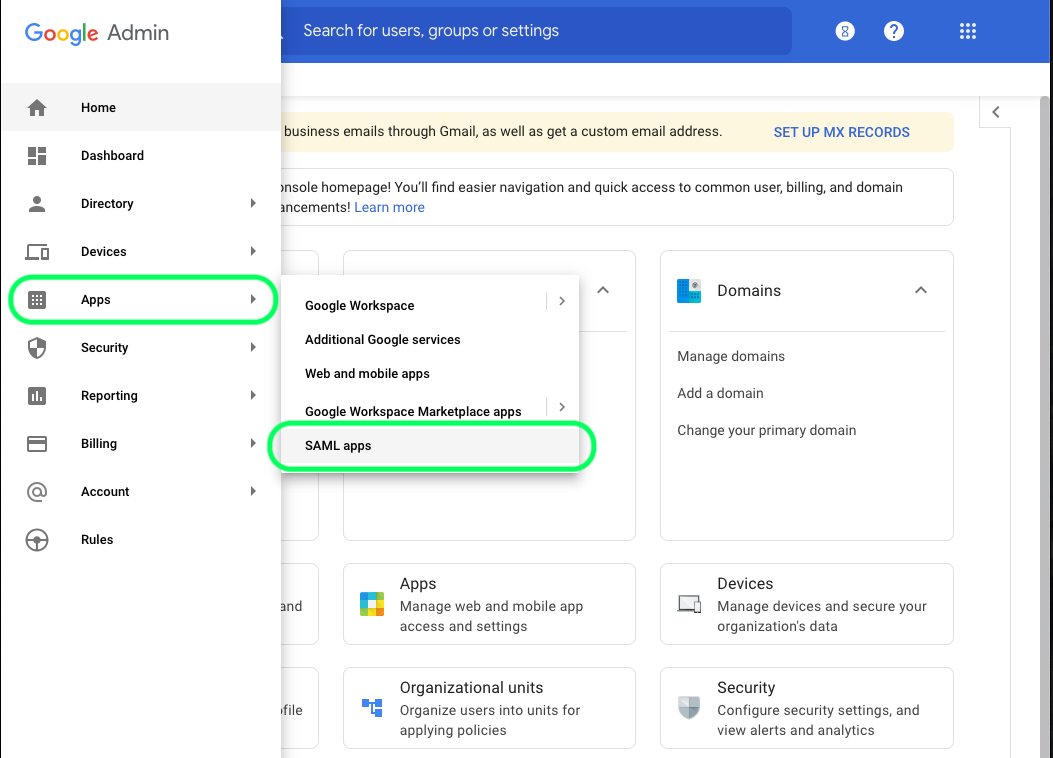
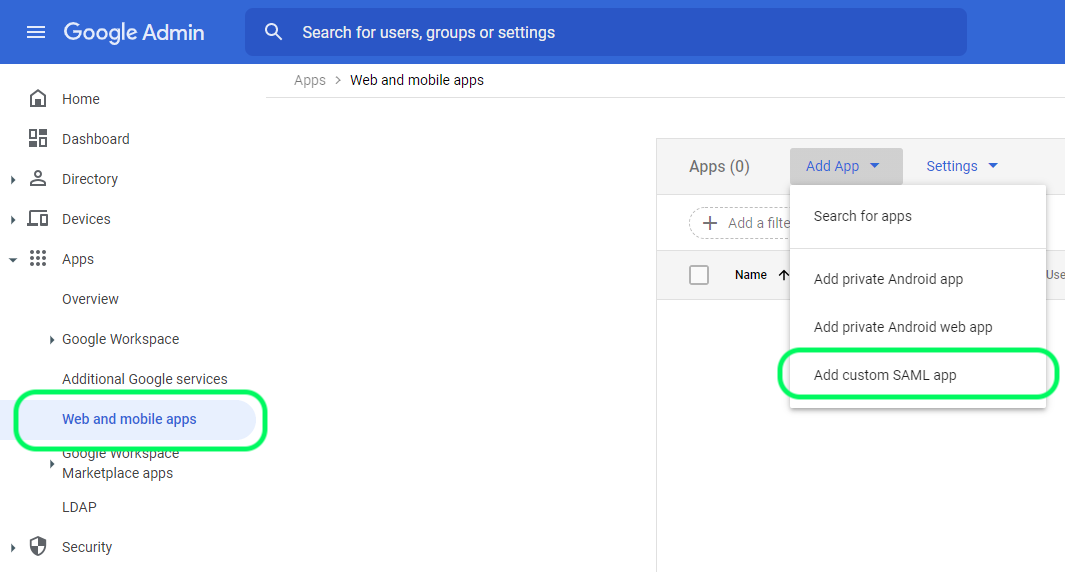
Misc (#763)
* bwdc tip for setting env variable

* hosting whitelist urls faq

* better screenshot for onelogin entity id

* clarify how to get entity id - okta

* aws entity id

* aws screenshot

* g workspace - entity id clarifications

* portable app FAQ item

diff --git a/_articles/login-with-sso/saml-google.md b/_articles/login-with-sso/saml-google.md
@@ -29,13 +29,9 @@ You don't need to edit anything on this screen yet, but keep it open for easy re
 
 ## Create a SAML app
 
-In the Google Workspace Admin console, select **Apps** &rarr; **SAML apps** from the navigation:
+In the Google Workspace Admin console, select **Apps** &rarr; **Web and mobile apps** from the navigation. On the Web and mobile apps screen, select **Add App** &rarr; **Add custom SAML app**:
 
-{% image sso/cheatsheets/saml-google/g-addapp.png SAML Apps %}
-
-Select **Add App** &rarr; **Add custom SAML app**:
-
-{% image sso/cheatsheets/saml-google/g-addapp2.png Custom SAML App %}
+{% image sso/cheatsheets/saml-google/g-addapp.png Create a SAML App %}
 
 ### App details
 
@@ -43,7 +39,9 @@ On the App details screen, give the application a unique Bitwarden-specific name
 
 ### Google Identity Provider details
 
-On the Google Identity Provider details screen, copy your **SSO URL**, **Entity ID**, and **Certificate** for [use during a later step](#identity-provider-configuration).
+On the Google Identity Provider details screen, copy your **SSO URL**, **Entity ID**, and **Certificate** for [use during a later step](#identity-provider-configuration):
+
+{% image sso/cheatsheets/saml-google/g-details.png IdP Details %}
 
 Select **Continue** when you're finished.
 
@@ -110,7 +108,7 @@ Identity Provider Configuration will often require you to refer back to the Work
 
 |Field|Description|
 |-----|-----------|
-|Entity ID|Set this field to Workspace's **Entity ID**, retrieved from the [Google Identity Provider details section](#identity-provider-details) or using the **Download Metadata** button.|
+|Entity ID|Set this field to Workspace's **Entity ID**, retrieved from the [Google Identity Provider details section](#google-identity-provider-details) or using the **Download Metadata** button.|
 |Binding Type|Set to **HTTP POST** or **Redirect**.|
 |Single Sign On Service URL|Set this field to Workspace's **SSO URL**, retrieved from the [Google Identity Provider details section](#identity-provider-details) or using the **Download Metadata** button.|
 |Single Log Out URL|Login with SSO currently **does not** support SLO. This option is planned for future development, however you may pre-configure it if you wish.|

diff --git a/_articles/login-with-sso/saml-okta.md b/_articles/login-with-sso/saml-okta.md
@@ -86,7 +86,9 @@ Once your application is created, select the **Sign On** tab for the app and sel
 
 {% image sso/cheatsheets/saml-okta/okta-ssosettings.png Get IdP Values %}
 
-Either leave this page up [for future use](#identity-provider-configuration), or copy the **Identity Provider Single Sign-On URL** and **Identity Provider Issuer** and download the **X.509 Certificate**.
+Either leave this page up [for future use](#identity-provider-configuration), or copy the **Identity Provider Single Sign-On URL** and **Identity Provider Issuer** and download the **X.509 Certificate**:
+
+{% image sso/cheatsheets/saml-okta/okta-values.png IdP Values %}
 
 ### Assignments
 
@@ -126,7 +128,7 @@ Identity Provider Configuration will often require you to refer back to the Okta
 
 |Field|Description|
 |-----|-----------|
-|Entity ID|Enter your **Identity Provider Issuer**, retrieved from the Okta [Sign On Settings](#get-idp-values) screen.|
+|Entity ID|Enter your **Identity Provider Issuer**, retrieved from the Okta [Sign On Settings](#get-idp-values) screen by selecting the **View Setup Instructions** button.|
 |Binding Type|Set to **Redirect**. Okta currently does not support HTTP POST.|
 |Single Sign On Service URL|Enter your **Identity Provider Single Sign-On URL**, retrieved from the Okta [Sign On Settings](#get-idp-values) screen.|
 |Single Log Out Service URL|Login with SSO currently **does not** support SLO. This option is planned for future development, however you may pre-configure it if you wish.|

diff --git a/_articles/faqs/hosting-faqs.md b/_articles/faqs/hosting-faqs.md
@@ -25,6 +25,17 @@ You can read more about Docker and container technologies at [Docker's Website](
 
 **A:** High availability can be achieved by either configuring multiple instances of the containers into a Docker Swarm or Kubernetes environment, and/or by pointing the database connection string that the containers reference to any MSSQL database or cluster. Then you would probably want to load balance the NGINX containers or however you choose to handle the front-end.
 
+### Q: Do I need to whitelist any URLs?
+
+**A:** In order to allow the server to **push notifications to Bitwarden clients**, you'll need to allow the following URLs through your firewall:
+
+- `api.bitwarden.com`
+- `push.bitwarden.com`
+
+{% callout success %}
+You don't **have** to use push notifications if whitelisting these URLs won't work for your environment.
+{% endcallout %}
+
 ### Q: How do I backup and restore my self-hosted instance?
 
 **A:** Bitwarden takes automated nightly backups of the `bitwarden-mssql` database container in order to protect your stored credentials. For help with manual backups, or help restoring a backup, see [Backup your Hosted Data]({{site.baseurl}}/article/backup-on-premise/).

diff --git a/_articles/faqs/security-faqs.md b/_articles/faqs/security-faqs.md
@@ -133,3 +133,7 @@ Note that when your browser updates to this version, you may be asked to accept 
 ### Q: Can I restrict access to Bitwarden to certain devices?
 
 **A:** Using self-hosting, you can use custom firewall and NGINX configurations as well as VPN/VLAN access control to determine the device types and/or network layer access for your Bitwarden instance. You may also use other tools such as device-level certificates to control specific device access to the Bitwarden instance as well.
+
+### Q: Does Bitwarden have a portable application?
+
+**A:** Yes! The Bitwarden Desktop Application is available for Windows as a portable `.exe` that can be downloaded [here](https://bitwarden.com/download){:target="\_blank"}. The portable app is well suited to **always-offline** environments or scenarios where automatic updating of the app is not desired. The portable app **will not update itself**.

diff --git a/_articles/directory-connector/directory-sync-shared.md b/_articles/directory-connector/directory-sync-shared.md
@@ -52,7 +52,7 @@ Cannot autolaunch D-Bus without X11 $DISPLAY
 ```
 ### Secret Storage in Headless Environments
 
-If a secure storage environment is not available, you can configure the Directory Connector CLI to use plaintext storage of secrets. To do so, set the following environment variable to override secure storage:
+If a secure storage environment is not available, you can configure the Directory Connector CLI to use plaintext storage of secrets. To do so, set the following environment variable to override secure storage, for example by running `sudo -H gedit /etc/environment`:
 ```
 BITWARDENCLI_CONNECTOR_PLAINTEXT_SECRETS=true
 ```

diff --git a/_articles/login-with-sso/saml-aws.md b/_articles/login-with-sso/saml-aws.md
@@ -44,7 +44,9 @@ Give the application a unique, Bitwarden-specific **Display name**.
 
 ### AWS SSO Metadata
 
-You'll need the information in this section for a later configuration step. Copy the **AWS SSO sign-in URL** and **AWS SSO issuer URL**, and download the **AWS SSO certificate**.
+You'll need the information in this section for a later configuration step. Copy the **AWS SSO sign-in URL** and **AWS SSO issuer URL**, and download the **AWS SSO certificate**:
+
+{% image sso/cheatsheets/saml-aws/aws-values.png AWS SSO Metadata %}
 
 ### Application Properties
 
